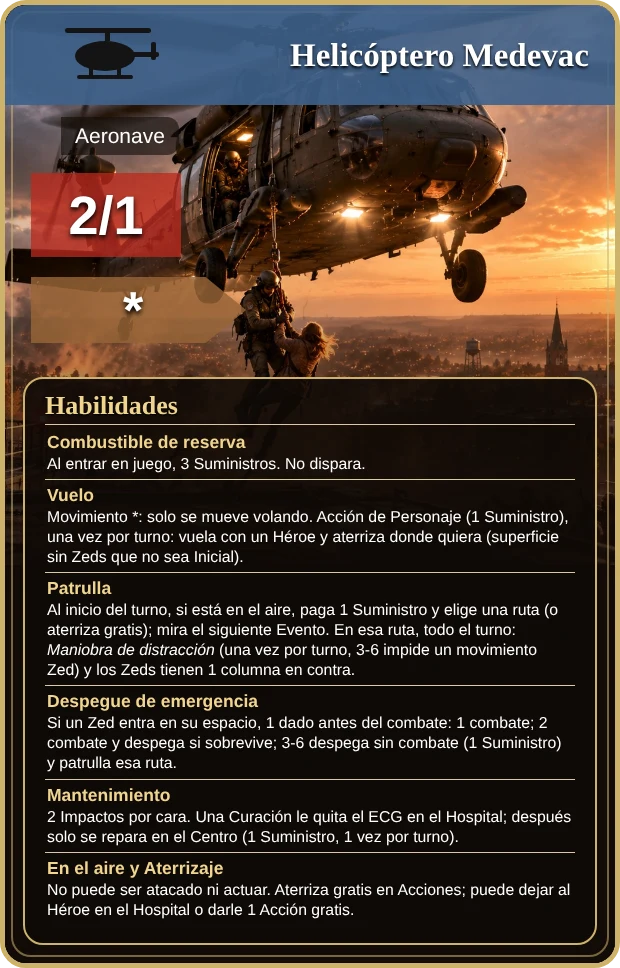
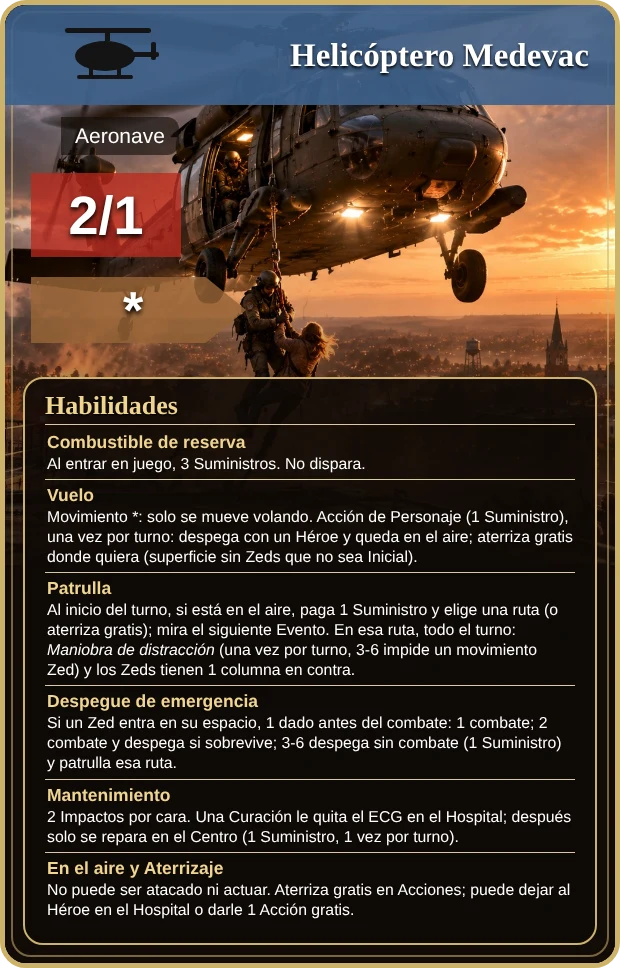
Helicóptero Medevac: el Vuelo despega y se queda en el aire
Antes preguntaba el destino y aterrizaba de inmediato, de modo que solo el
despegue de emergencia dejaba al helicóptero en el aire. Ahora el Vuelo (1
Suministro) lo deja en el aire con el Héroe que elijas; aterriza gratis cuando
quieras en Acciones o sigue arriba y patrulla al inicio del siguiente turno.
Carta, textos, CHANGELOG, BUILD_TIME y caché actualizados.

Claude-Session: https://claude.ai/code/session_01KmRiLZMftQUUyzar8LGUez

Changed region(s): [[0.0613, 0.5269, 0.9194, 0.5888]]

diff --git a/js/expansions.js b/js/expansions.js
@@ -31,7 +31,7 @@ Object.assign(HEROES, {
   sar: { name: 'Búsqueda y Rescate (SAR)', type: 'civh', cls: 'Civiles Heroicos', full: 3, red: 2, mp: 3, img: 'sar', card: 'h_sar', lv: 2, exp: 4, hf: 2, hr: 2,
     txt: ['<b>Despejar:</b> Acción de Personaje (1 Acción), una vez por turno, aunque haya Caos en su espacio: en el Mantenimiento quita 2 fichas de Caos de ese espacio sin subir la Infección.', '<b>Escudo humano:</b> 1 columna a favor en combates Cuerpo a Cuerpo y al disparar mientras haya Refugiados o Aldeanos en su espacio.'] },
   heli: { name: 'Helicóptero Medevac', type: 'hero', cls: 'Aeronave', full: 2, red: 1, mp: 3, mpTxt: '*', img: 'heli', card: 'h_heli', lv: 2, exp: 4, hf: 2, hr: 2, nofire: 1,
-    txt: ['<b>Combustible de reserva:</b> al entrar en juego obtienes 3 Suministros.', '<b>Vuelo:</b> su Movimiento es *: no usa la Acción de Mover, solo se mueve volando. Acción de Personaje (1 Suministro), una vez por turno: el helicóptero y un Héroe de su espacio vuelan y aterrizan donde quieran: cualquier espacio de superficie sin Zeds que no sea Inicial. No pueden llevar a Pepinillos, Horacio, el General Lee ni Carter.', '<b>Patrulla:</b> al inicio de cada turno, tras revelar el Evento, si está en el aire paga 1 Suministro y elige una ruta para patrullar, o aterriza gratis. Mira la siguiente carta de Evento. En esa ruta, todo el turno: <b>Maniobra de distracción</b> (reacción, una vez por turno: antes de que una unidad o Horda Zed se mueva, tira 1 dado; con 3-6 no se mueve, y si falla no puede reintentarlo) y los Zeds tienen 1 columna en contra en todos los combates.', '<b>Despegue de emergencia:</b> cuando una unidad Zed entra en su espacio, tira 1 dado antes del combate: 1 combate normal y no despega; 2 combate normal y, si sigue vivo, despega; 3-6 despega sin combate. Al despegar paga 1 Suministro, puede llevarse al Héroe de su espacio y patrulla esa ruta el resto del turno.', '<b>En el aire:</b> ni el helicóptero ni su Héroe pueden ser atacados ni realizar Acciones.', '<b>Aterrizaje:</b> gratis en cualquier momento de la fase de Acciones, en un espacio de superficie sin Zeds que no sea Inicial. Puede dejar al Héroe en una Cama libre del Hospital (sin ECG ni Infección); si aterriza en un espacio, el Héroe recibe 1 Acción gratis.', '<b>Mantenimiento:</b> recibe 2 Impactos por cara. Las unidades médicas no pueden repararlo de forma habitual: si cae al Hospital, una Curación le retira el ECG; después solo se repara en el Centro, pagando 1 Suministro, una vez por turno.', '<b>No dispara.</b>'] },
+    txt: ['<b>Combustible de reserva:</b> al entrar en juego obtienes 3 Suministros.', '<b>Vuelo:</b> su Movimiento es *: no usa la Acción de Mover, solo se mueve volando. Acción de Personaje (1 Suministro), una vez por turno: el helicóptero y un Héroe de su espacio despegan y quedan en el aire. Aterrizan después, gratis, donde quieran (cualquier espacio de superficie sin Zeds que no sea Inicial), o siguen en el aire. No pueden llevar a Pepinillos, Horacio, el General Lee ni Carter.', '<b>Patrulla:</b> al inicio de cada turno, tras revelar el Evento, si está en el aire paga 1 Suministro y elige una ruta para patrullar, o aterriza gratis. Mira la siguiente carta de Evento. En esa ruta, todo el turno: <b>Maniobra de distracción</b> (reacción, una vez por turno: antes de que una unidad o Horda Zed se mueva, tira 1 dado; con 3-6 no se mueve, y si falla no puede reintentarlo) y los Zeds tienen 1 columna en contra en todos los combates.', '<b>Despegue de emergencia:</b> cuando una unidad Zed entra en su espacio, tira 1 dado antes del combate: 1 combate normal y no despega; 2 combate normal y, si sigue vivo, despega; 3-6 despega sin combate. Al despegar paga 1 Suministro, puede llevarse al Héroe de su espacio y patrulla esa ruta el resto del turno.', '<b>En el aire:</b> ni el helicóptero ni su Héroe pueden ser atacados ni realizar Acciones.', '<b>Aterrizaje:</b> gratis en cualquier momento de la fase de Acciones, en un espacio de superficie sin Zeds que no sea Inicial. Puede dejar al Héroe en una Cama libre del Hospital (sin ECG ni Infección); si aterriza en un espacio, el Héroe recibe 1 Acción gratis.', '<b>Mantenimiento:</b> recibe 2 Impactos por cara. Las unidades médicas no pueden repararlo de forma habitual: si cae al Hospital, una Curación le retira el ECG; después solo se repara en el Centro, pagando 1 Suministro, una vez por turno.', '<b>No dispara.</b>'] },
   caza: { name: 'Club de Caza de Farmingdale', type: 'civh', cls: 'Civiles Heroicos', full: 3, red: 2, mp: 3, img: 'caza', card: 'h_caza', lv: 2, exp: 4, hf: 2, hr: 2,
     txt: ['<b>Puesto de caza:</b> disparan a 2 espacios sin penalización de columna.', '<b>Trofeo:</b> cuando su disparo elimina a una unidad Zed, recuperan 1 Munición.', '<b>Presa marcada:</b> Acción de Personaje (1 Acción), una vez por turno: marcan una unidad Zed a su alcance. Los disparos de cualquier unidad de jugador contra ella tienen 1 columna a favor hasta que sea eliminada o termine el turno.', '<b>A campo abierto:</b> tienen 1 columna en contra en combates Cuerpo a Cuerpo.'] }
 });

diff --git a/js/expansions2.js b/js/expansions2.js
@@ -103,18 +103,9 @@ function heliLandSpaces(u, comp) {
   if (G.spaces.C && !blocked('C') && !zedsAt('C').length && !ids.includes('C')) ids.push('C');
   return ids;
 }
+/* Vuelo: despega con un Héroe de su espacio (opcional) y queda en el aire. Aterriza gratis más tarde (Aterrizar) o sigue arriba y patrulla al inicio del siguiente turno. */
 async function heliVuelo(u) {
-  let comp = null; const cands = heliCands(u);
-  if (cands.length) {
-    const w = await UI.choose({ title: 'Vuelo', text: '¿El helicóptero lleva a un Héroe de su espacio?', options: [{ label: 'Volar solo', value: 'n' }, { label: 'Llevar a un Héroe', value: 'y' }] });
-    if (w === 'y') { const v = await UI.pickUnit(cands, 'Vuelo: elige al Héroe que llevas.', true); if (v == null) return; comp = G.units[v]; }
-  }
-  const ds = heliLandSpaces(u, comp).filter(id => id !== u.space); if (!ds.length) { LOG('No hay espacio libre para aterrizar.'); return; }
-  const t = ds.length === 1 ? ds[0] : await UI.pickSpace(ds, 'Vuelo: elige dónde aterrizas.', true); if (t == null) return;
-  G.charUsed.vuelo = true; G.supplies -= 1;
-  putUnit(u, t); if (comp) putUnit(comp, t);
-  LOG('Vuelo: ' + u.name + (comp ? ' y ' + comp.name : '') + ' aterrizan en ' + spaceLabel(t) + ' (−1 Suministro).', 'good');
-  UI.updateStats(); UI.redraw(); UI.focus(t);
+  await heliTakeoff(u, null, 'Vuelo');
 }
 /* Despega (de emergencia o no): queda en el aire con su Héroe y patrulla la ruta indicada lo que queda de turno. */
 async function heliTakeoff(h, route, why) {

diff --git a/js/actions.js b/js/actions.js
@@ -199,7 +199,7 @@ function unitActions(u) {
     if (u.key === 'jones' && G.res && u.space && sp(u.space).kind === 'office') A.push({ id: 'jhosp', label: 'Sus Propios Planes: paciente al Cementerio + Investigación', ok: cu('planes') && G.res.deck.length > 0 && hospitalUnits(u).length > 0 });
     if (u.key === 'hunt') A.push({ id: 'lid', label: 'Liderazgo', ok: cu('lid') });
     if (u.key === 'alia') A.push({ id: 'calle', label: 'Ya no es hora de estar en la calle', ok: cu('calle') && calleTargets(u).length > 0 });
-    if (u.key === 'heli') A.push({ id: 'vuelo', label: 'Vuelo (1 Suministro, con un Héroe)', ok: cu('vuelo') && G.supplies >= 1 && heliLandSpaces(u, null).some(id => id !== u.space) });
+    if (u.key === 'heli') A.push({ id: 'vuelo', label: 'Vuelo: despegar (1 Suministro)', ok: cu('vuelo') && G.supplies >= 1 && heliLandSpaces(u, null).some(id => id !== u.space) });
     if (u.key === 'caza') A.push({ id: 'marcar', label: 'Presa marcada (1 acc.)', ok: cu('marcar') && pay(1) && Object.keys(fireTargets(u)).length > 0 });
     if (u.key === 'porter') A.push({ id: 'jefe', label: 'Jefe de equipo', ok: cu('jefe') && jefeTargets(u).length > 0 });
     if (u.key === 'hernandez') { A.push({ id: 'cit', label: 'Ciudadela', ok: cu('cit') && G.ammo >= 1 }); A.push({ id: 'spe', label: 'Discurso Motivador', ok: !G.speechUsed }); }

diff --git a/sw.js b/sw.js
@@ -1,7 +1,7 @@
 /* Service worker: permite instalar la web como app y jugar sin conexión.
    Código (html/js/css): red primero, con copia local de reserva. Imágenes y audio: caché primero. */
 'use strict';
-const CACHE = 'doz3-v50';
+const CACHE = 'doz3-v51';
 const SHELL = ['./', 'index.html', 'style.css', 'manifest.webmanifest', 'icons/icon-192.png', 'icons/icon-512.png', 'assets/portada.jpg', 'assets/fondo_nueva.webp', 'assets/fondo_ranking.webp',
   'js/version.js', 'js/data.js', 'js/events.js', 'js/dest.js', 'js/evlog.js', 'js/preview.js', 'js/obituario.js', 'js/engine.js', 'js/game.js', 'js/phases.js', 'js/actions.js', 'js/cardtext.js', 'js/ui.js', 'js/anim.js',
   'js/expansions.js', 'js/expansions2.js', 'js/sfx.js', 'js/sound.js', 'js/opciones.js', 'js/voz.js', 'js/ost.js', 'assets/sonidos/letras/letras.js', 'assets/sonidos/efectos/sfx_disparo.mp3', 'assets/sonidos/efectos/sfx_disparo_largo.mp3', 'js/mapzoom.js', 'js/seedcode.js', 'js/save.js', 'js/main.js', 'js/bot.js'];

diff --git a/js/version.js b/js/version.js
@@ -1,2 +1,2 @@
 /* Fecha y hora de la última build (hora de Madrid). Se actualiza con cada cambio publicado. */
-const BUILD_TIME = '2026-10-31 16:00';
+const BUILD_TIME = '2026-10-31 16:40';

diff --git a/CHANGELOG.md b/CHANGELOG.md
@@ -2,6 +2,11 @@
 
 Registro de cambios por publicación (push a `main`). Lo más reciente, arriba. Cada entrada lleva la misma fecha y hora que `BUILD_TIME` de `js/version.js`.
 
+## 2026-10-31 16:40
+
+### Fixes
+- **Helicóptero Medevac, Vuelo:** ahora despega y se queda en el aire (con el Héroe que elijas, o solo) en vez de preguntar el destino y aterrizar de inmediato. Aterriza gratis cuando quieras en la fase de Acciones, o sigue arriba y patrulla pagando 1 Suministro al inicio del siguiente turno.
+
 ## 2026-10-31 16:00
 
 ### Cambios
